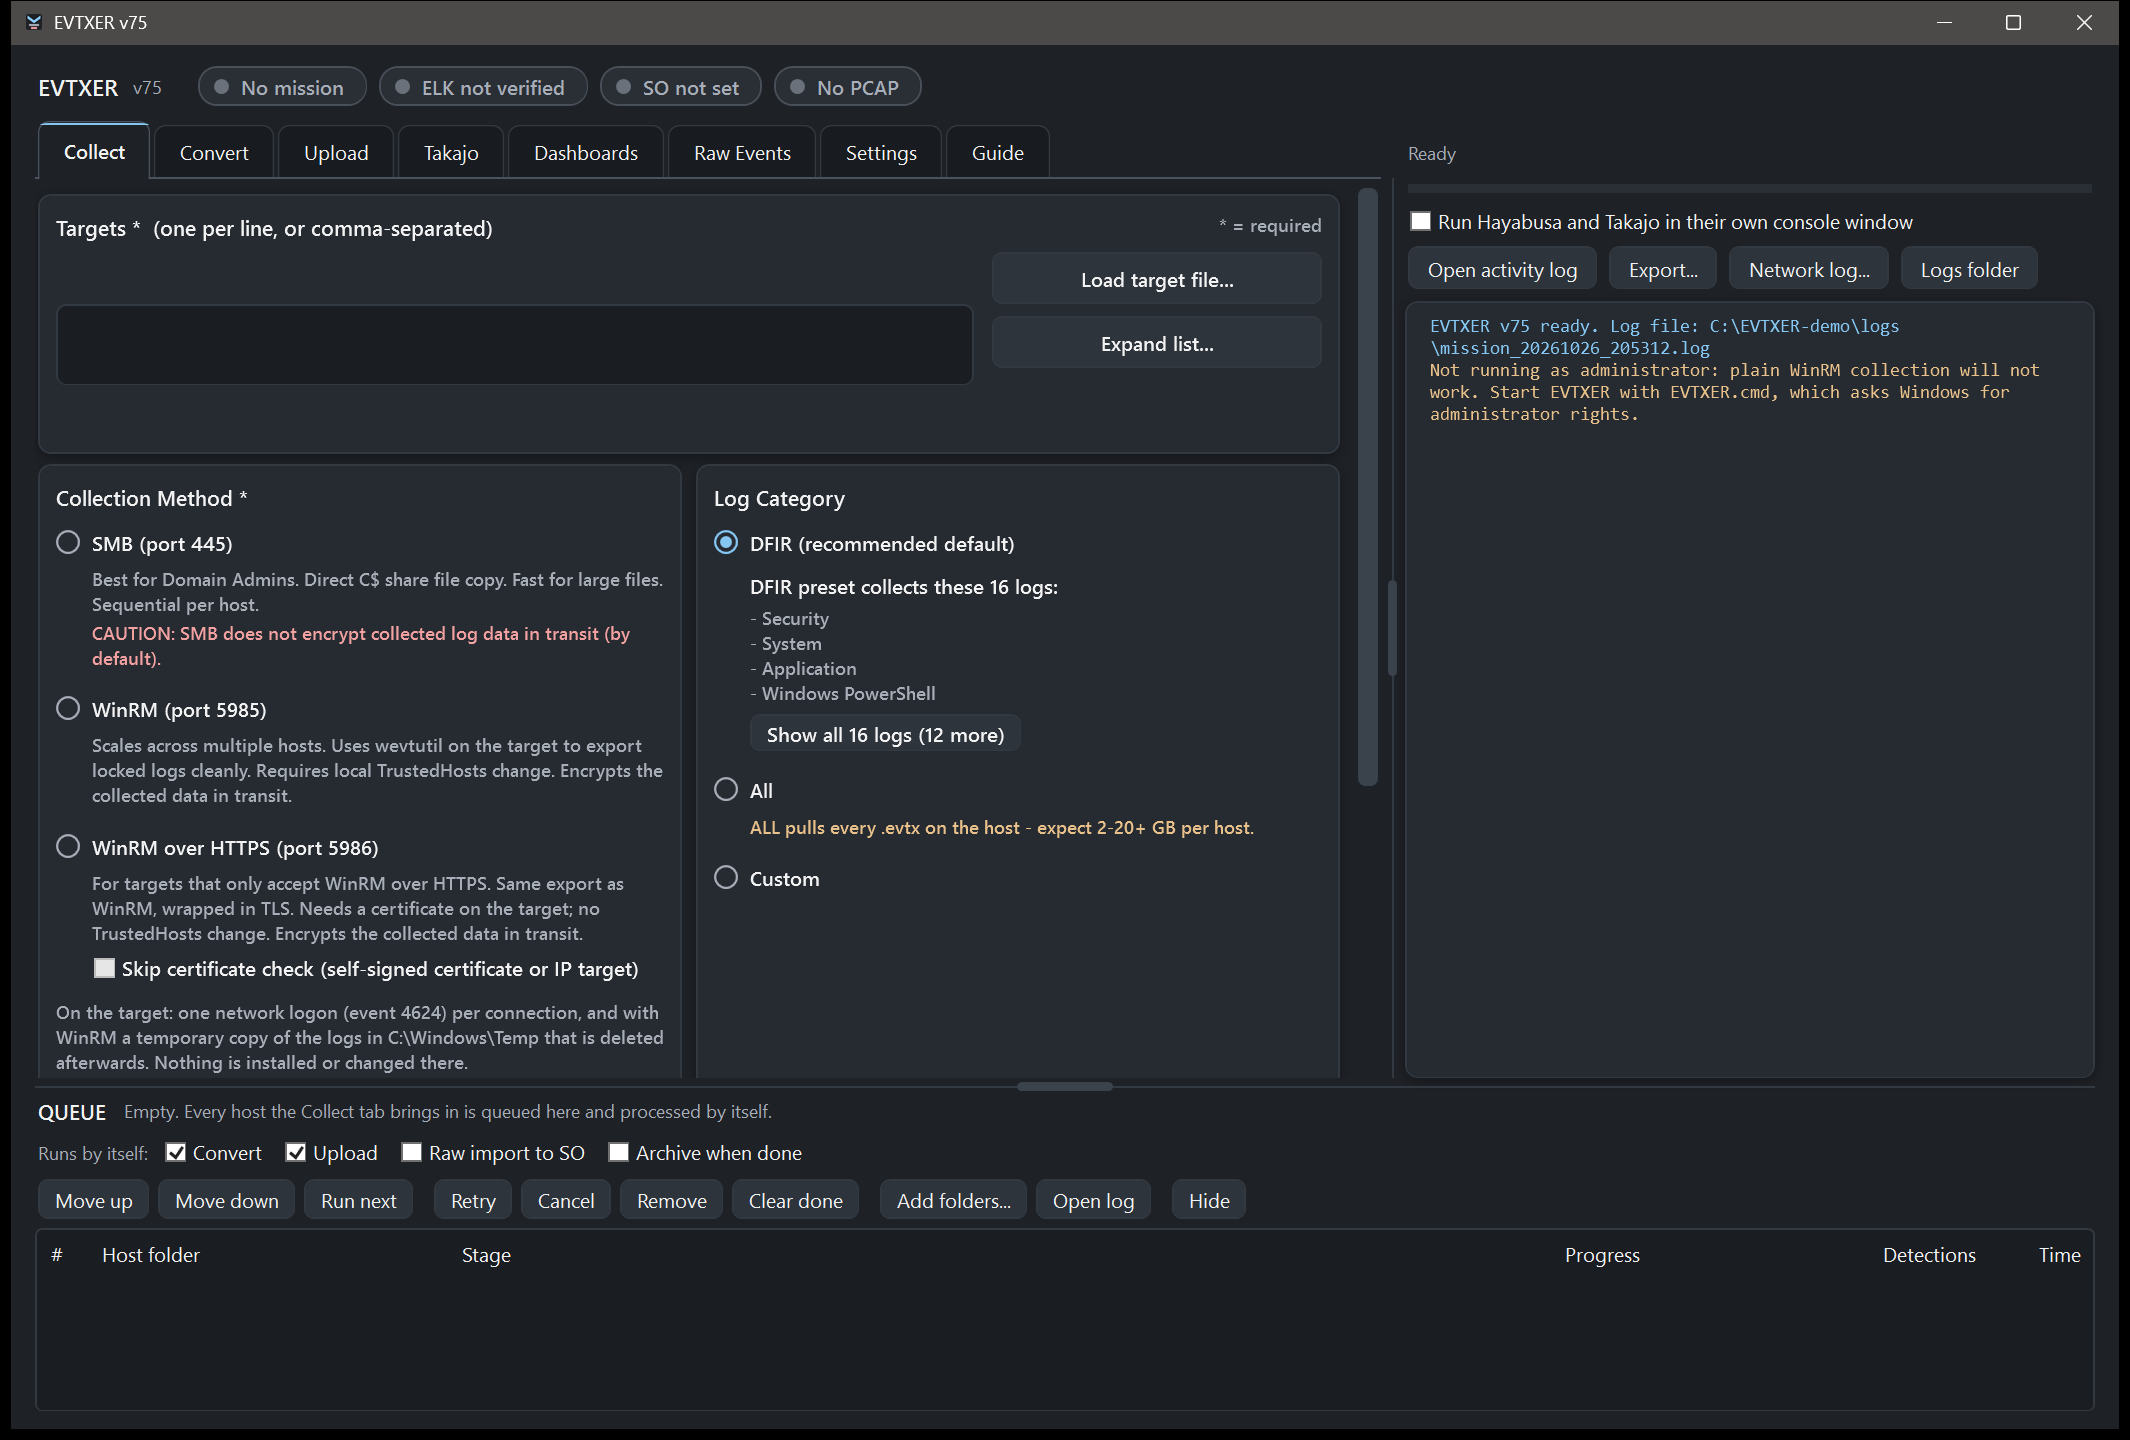
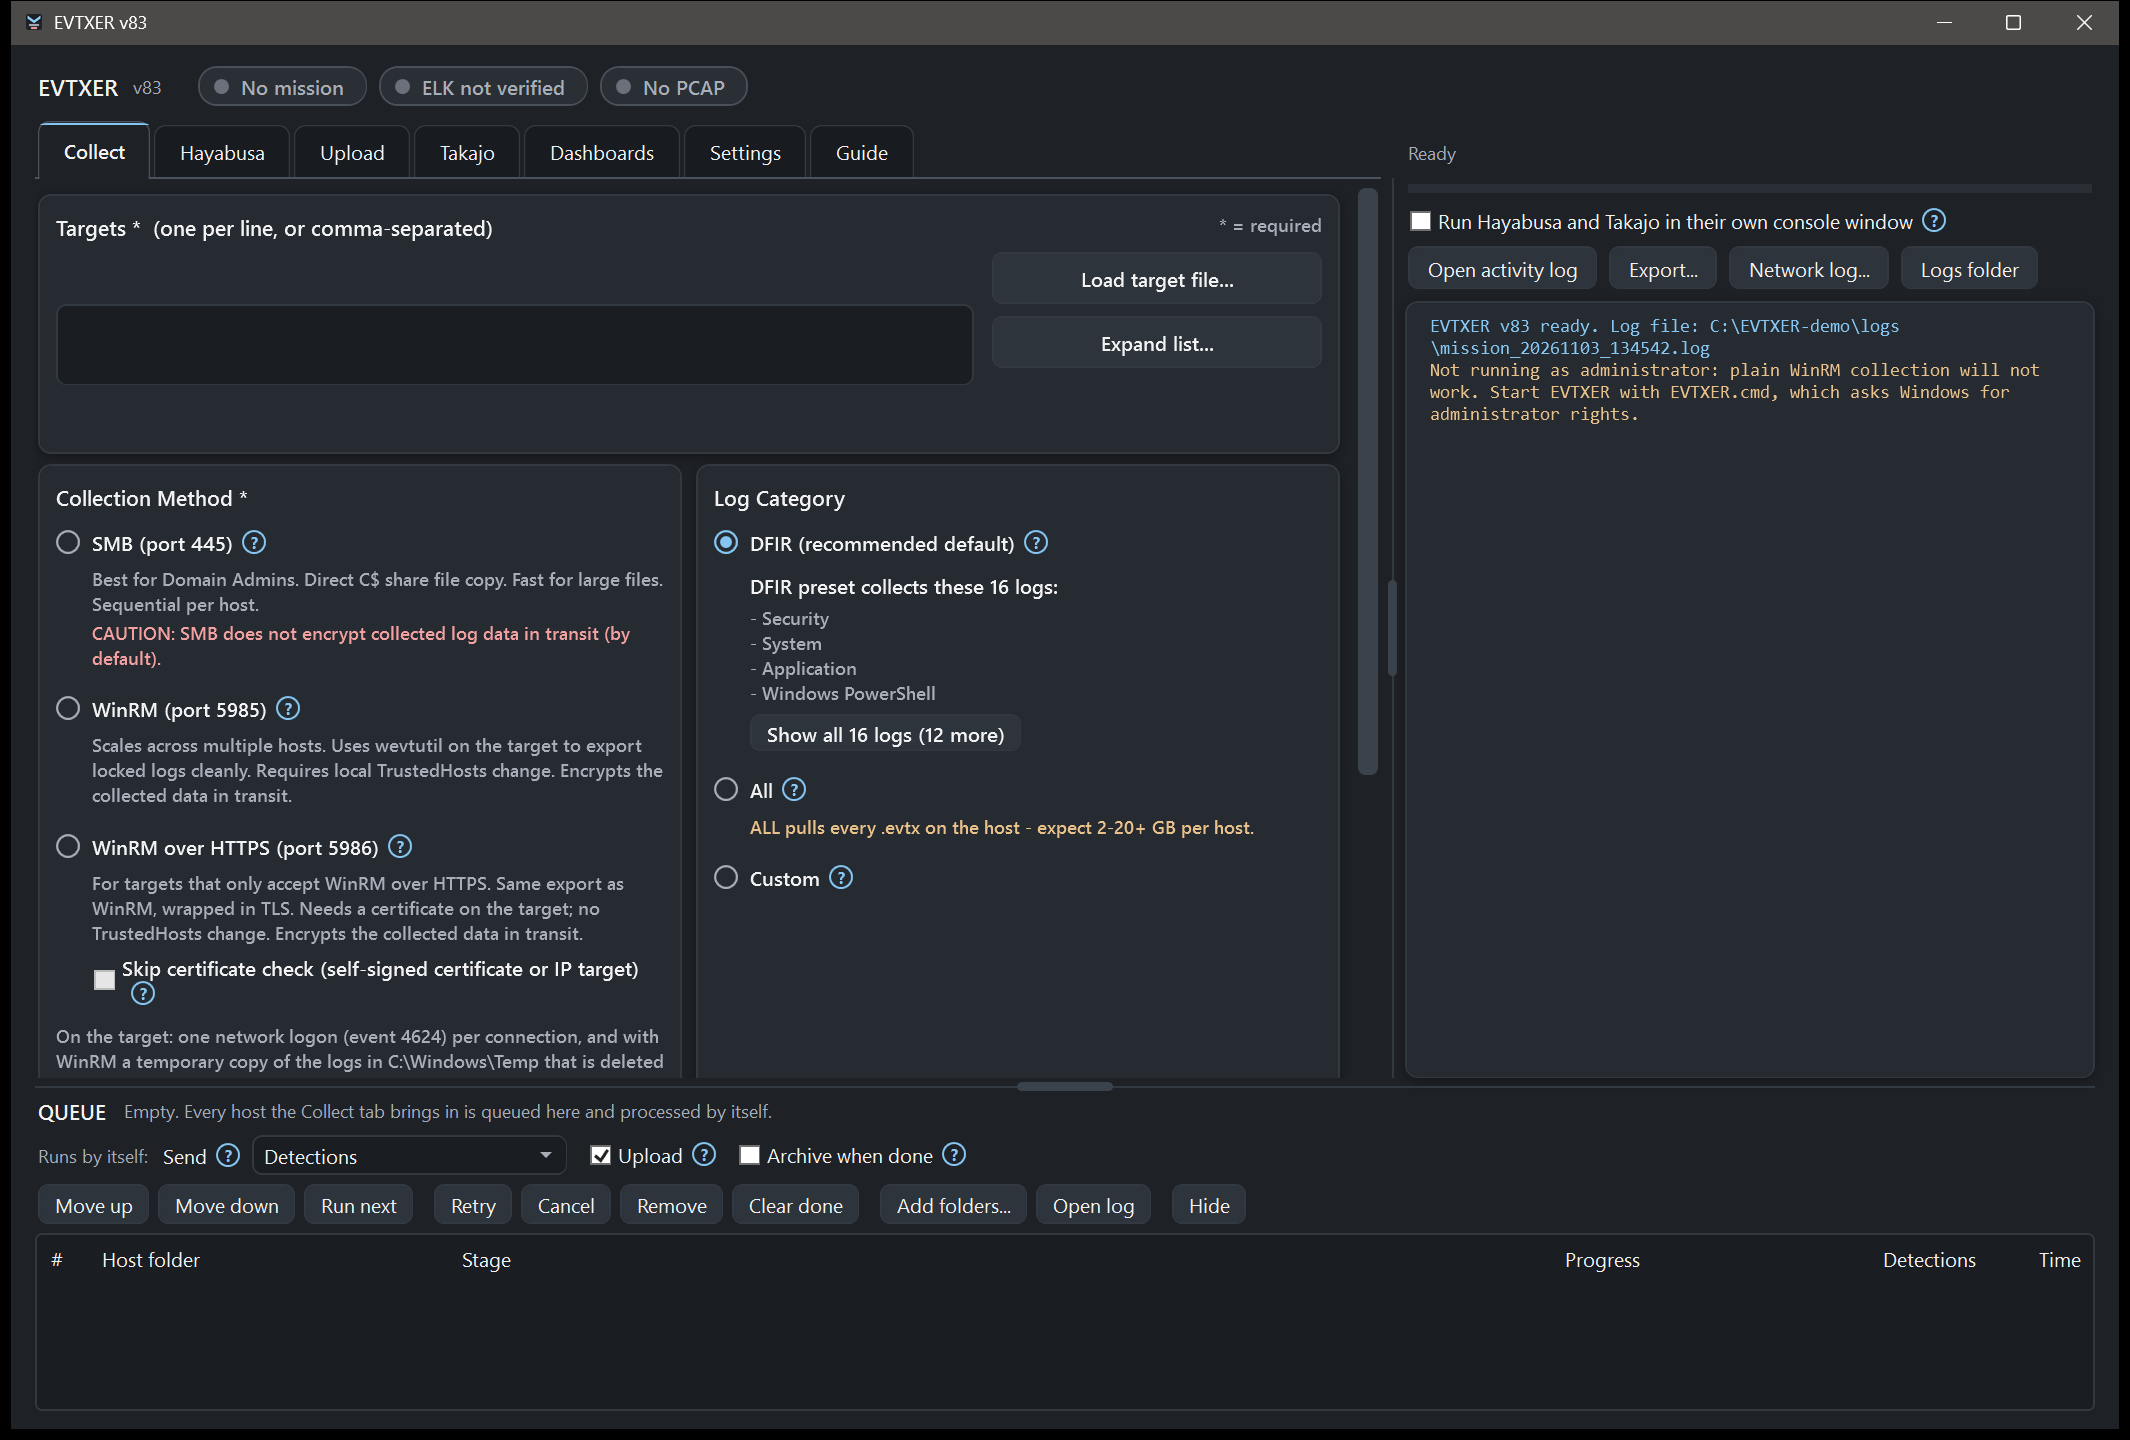
README: screenshot and features at v83 - seven tabs, the Send choice

diff --git a/README.md b/README.md
@@ -16,7 +16,7 @@
 </p>
 
 <p align="center">
-  <img src=".github/images/evtxer-window.png" width="860" alt="The EVTXER window: eight tabs, the status pills, the collection options and the job queue">
+  <img src=".github/images/evtxer-window.png" width="860" alt="The EVTXER window: seven tabs, the status pills, the collection options and the job queue with its Send choice">
 </p>
 
 EVTXER is a Windows tool for incident responders and threat hunters. It pulls
@@ -47,7 +47,9 @@ needed.** Copy the folder, double-click, work.
   endpoint and Active Directory investigation (PowerShell, command lines,
   registry, Kerberos, services, tasks...), named like the detections' fields
   so one query finds both. Exported by Hayabusa's `search` command, converted
-  by a compiled converter, uploaded with the same checks.
+  by a compiled converter, uploaded with the same checks. One choice says what
+  to send: detections, raw events, or both - raw events only skips the rules
+  scan.
 - **Hunt** - thirteen Kibana dashboards and ten saved searches: overview, hunting,
   MITRE ATT&CK, PEAK threat hunting on detections and on raw events (with
   Kerberos panels), raw-event lateral movement, Active Directory and
@@ -55,8 +57,9 @@ needed.** Copy the folder, double-click, work.
   long command lines), a mission timeline joining detections and raw events,
   and per-host links. Exports for Kibana 9 and 8.7.
 - **Takajo** - CSV results or an offline HTML report, opened from disk.
-- **Queue** - each collected host runs scan, upload, raw events and archive by
-  itself, in the background, one step at a time.
+- **Queue** - each collected host is scanned, uploaded and archived by itself,
+  in the background, one step at a time; its Send choice picks detections, raw
+  events or both, and works the same on folders from a share.
 - **Accountability** - an append-only activity log of every action that
   touched a target or the stack, and an optional PCAP of the session.
   Passwords are never written to disk, logs or command lines (an opt-in
